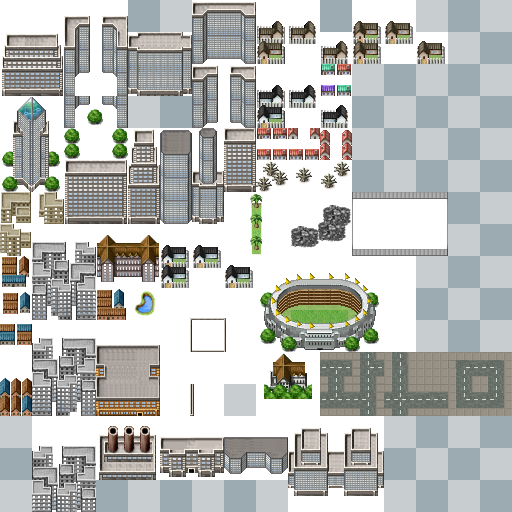
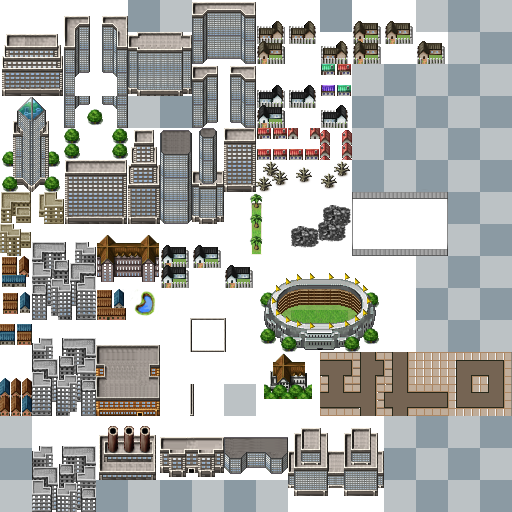
Audio settings now saved.  Rebuilt first tots maze with the new road tiles.  Reverted follow alg to the closest solution so far.

Changed region(s): [[0.625, 0.6875, 1.0, 0.8125], [0.625, 0.1562, 0.6562, 0.1875]]

diff --git a/DenverDefenders/core/src/org/TheGivingChild/Engine/Maze/ChildSprite.java b/DenverDefenders/core/src/org/TheGivingChild/Engine/Maze/ChildSprite.java
@@ -1,6 +1,5 @@
 package org.TheGivingChild.Engine.Maze;
 
-import com.badlogic.gdx.Gdx;
 import com.badlogic.gdx.graphics.Texture;
 import com.badlogic.gdx.graphics.g2d.Sprite;
 /**
@@ -37,28 +36,58 @@ public class ChildSprite extends Sprite {
 	// Causes this sprite to follow the passed sprite along the maze path
 	public void followSprite(Sprite followMe, Maze maze){
 		// Find the path to the target sprite
-		Vertex src = maze.getTileAt(followMe.getX(), followMe.getY());
-		Vertex dest = maze.getTileAt(this.getX(), this.getY());
-		if (src == dest) return;
-		// Builds src -> dest tree
-		maze.bfSearch(dest, src);
-		// Find adjacent tile
-		Vertex moveHere = maze.getTileRelativeTo(src, src.getParent());
-		// Build dest -> src tree
-		maze.bfSearch(src, dest);
+		Vertex followTile = maze.getTileAt(followMe.getX(), followMe.getY());
+		Vertex myTile = maze.getTileAt(this.getX(), this.getY());
+		// Same tile check
+		if (followTile == myTile) return;
+		// Build followTile -> myTile tree
+		maze.bfSearch(myTile, followTile);
+		// Adjacent check
+		Vertex adj = maze.getTileRelativeTo(followTile, followTile.getParent());
+		//if (adj == myTile) return;
+		// Else draw on adjacent with same offset
+		float offsetX = 0;
+		float offsetY = 0;
+		switch(followTile.getParent()) {
+		case UP:
+			offsetY = followMe.getY() - followTile.getY();
+			break;
+		case DOWN:
+			offsetY = followMe.getY() - followTile.getY();
+			break;
+		case RIGHT:
+			offsetX = followMe.getX() - followTile.getX();
+			break;
+		case LEFT:
+			offsetX = followMe.getX() - followTile.getX();
+			break;
+		}
+		
+		this.setX(adj.getX() + offsetX);
+		this.setY(adj.getY() + offsetY);
+		
+		/* BROKEN IDEAS
+		// Builds myTile -> followTile tree
+		maze.bfSearch(followTile, myTile);
+		// Find adjacent tile in the path
+		Vertex adj = maze.getTileRelativeTo(myTile, myTile.getParent());
+		// One tile away check
+		if (adj == followTile) return;
+		
+		// Else move to the adjacent tile
 		float spriteMoveX = 0;
 		float spriteMoveY = 0;
 		float delta = 0;
-		// Determine target
-		Vertex myTile = maze.getTileAt(this.getX(), this.getY());
+		// Snap to current tile before attempting to progress
 		Vertex target;
 		if (myTile.getX() != getX() || myTile.getY() != getY()) {
-			// Make sure snapped to a tile first before finding a new target
+			// Not on tile, move to it
 			target = myTile;
 		}
-		else target = maze.getTileRelativeTo(dest, dest.getParent());
+		// Else can move to adj tile
+		else target = adj;
 		boolean reached = false;
-		switch(dest.getParent()) {
+		switch(myTile.getParent()) {
 		case UP:
 			spriteMoveY = speed*Gdx.graphics.getDeltaTime();
 			delta = target.getY() - getY();
@@ -91,6 +120,7 @@ public class ChildSprite extends Sprite {
 			this.setX(this.getX() + spriteMoveX);
 			this.setY(this.getY() + spriteMoveY);
 		}
+		*/
 	}
 
 	public void setSpeed(float f)

diff --git a/DenverDefenders/core/src/org/TheGivingChild/Engine/AudioManager.java b/DenverDefenders/core/src/org/TheGivingChild/Engine/AudioManager.java
@@ -1,5 +1,7 @@
 package org.TheGivingChild.Engine;
 
+import com.badlogic.gdx.Gdx;
+import com.badlogic.gdx.Preferences;
 import com.badlogic.gdx.audio.Music;
 import com.badlogic.gdx.audio.Sound;
 import com.badlogic.gdx.utils.ObjectMap;
@@ -19,27 +21,28 @@ public class AudioManager {
 	private ObjectMap<String, Sound> soundMap;
 	// Reference to currently selected song
 	private Music backgroundSoundToPlay;
-	
+
 	public static AudioManager getInstance() {
 		if (instance == null)
 			instance = new AudioManager();
 		return instance;
 	}
-	
+
 	public AudioManager() {
 		soundMap = new ObjectMap<String, Sound>();
-		// Default settings
-		soundEnabled = true;
-		musicEnabled = true;
+		// Load settings
+		Preferences prefs = Gdx.app.getPreferences("save_data");
+		soundEnabled = prefs.getBoolean("soundEnabled", true);
+		musicEnabled = prefs.getBoolean("musicEnabled", true);
 		volume = 1.0f;
 	}
-	
+
 	// Sets up sound references
 	public void initialize(TGC_Engine game) {
 		this.game = game;
 		this.addAvailableSound("sounds/click.wav");
 	}
-	
+
 	// Adds the sound name to the map
 	public void addAvailableSound(String soundFile) {
 		//Load sound, this should be refactored, it is currently synchronous
@@ -47,25 +50,27 @@ public class AudioManager {
 		game.getAssetManager().finishLoadingAsset(soundFile);
 		soundMap.put(soundFile, game.getAssetManager().get(soundFile, Sound.class));
 	}
-	
+
 	// Begins looping background song
 	public void playBackgroundMusic() {
 		backgroundSoundToPlay = game.getAssetManager().get("sounds/backgroundMusic/03_Chibi_Ninja.wav", Music.class);
 		backgroundSoundToPlay.setVolume(volume);
 		backgroundSoundToPlay.setLooping(true);
-		backgroundSoundToPlay.play();
+		if (musicEnabled) {
+			backgroundSoundToPlay.play();
+		}
 	}
-	
+
 	// Plays the sound file if sound is enabled
 	public void play(String fileName) {
 		if (soundEnabled)
 			soundMap.get(fileName).play(volume);
 	}
-	
+
 	public void setVolume(float volume) {
 		this.volume = volume;
 	}
-	
+
 	// Sets music enabled bool and plays the music if enabled is true
 	public void setMusicEnabled(boolean enabled) {
 		musicEnabled = enabled;
@@ -74,11 +79,11 @@ public class AudioManager {
 		else if (!enabled)
 			backgroundSoundToPlay.pause();
 	}
-	
+
 	public void setSoundEnabled(boolean enabled) {
 		soundEnabled = enabled;
 	}
-	
+
 	public void dispose() {
 		backgroundSoundToPlay.dispose();
 		for (Sound s : soundMap.values()) {

diff --git a/DenverDefenders/core/src/org/TheGivingChild/Screens/ScreenOptions.java b/DenverDefenders/core/src/org/TheGivingChild/Screens/ScreenOptions.java
@@ -79,7 +79,10 @@ class ScreenOptions extends ScreenAdapter {
 		bs.checked = skin.getDrawable("CheckBox_Checked");
 		bs.up = skin.getDrawable("CheckBox");
 		Button musicCheck = new Button(bs);
-		musicCheck.setChecked(true);
+		if (AudioManager.getInstance().musicEnabled)
+			musicCheck.setChecked(true);
+		else
+			musicCheck.setChecked(false);
 		musicCheck.addListener(new MyChangeListener() {
 			@Override
 			public void changed(ChangeEvent event, Actor actor) {
@@ -90,7 +93,10 @@ class ScreenOptions extends ScreenAdapter {
 			}
 		});
 		Button soundCheck = new Button(bs);
-		soundCheck.setChecked(true);
+		if (AudioManager.getInstance().soundEnabled)
+			soundCheck.setChecked(true);
+		else
+			soundCheck.setChecked(false);
 		soundCheck.addListener(new MyChangeListener() {
 			@Override
 			public void changed(ChangeEvent event, Actor actor) {
@@ -137,6 +143,8 @@ class ScreenOptions extends ScreenAdapter {
 			@Override
 			public void changed(ChangeEvent event, Actor actor) {
 				super.changed(event, actor);
+				// Save new audio settings
+				game.data.save();
 				ScreenTransition optionsToMain = new ScreenTransition(ScreenAdapterEnums.OPTIONS, ScreenAdapterEnums.MAIN);
 				game.setScreen(optionsToMain);
 			}

diff --git a/DenverDefenders/core/src/org/TheGivingChild/Engine/ProgressionData.java b/DenverDefenders/core/src/org/TheGivingChild/Engine/ProgressionData.java
@@ -57,7 +57,7 @@ public class ProgressionData {
 		totsUnlockedPowerUps.add("backpack");
 		totsLevelsUnlocked = 3;
 		kidsLevelsUnlocked = 2;
-		save();
+		// Go to options screen and back to run a save operation
 		*/
 		
 		
@@ -97,8 +97,11 @@ public class ProgressionData {
 		}
 		for (String s : totsUnlockedPowerUps) {
 			prefs.putBoolean("tots" + s, true);
-			System.out.println("saved tots: " + s);
 		}
+		// Sound settings
+		AudioManager aud = AudioManager.getInstance();
+		prefs.putBoolean("musicEnabled", aud.musicEnabled);
+		prefs.putBoolean("soundEnabled", aud.soundEnabled);
 		prefs.flush();
 	}
 	
